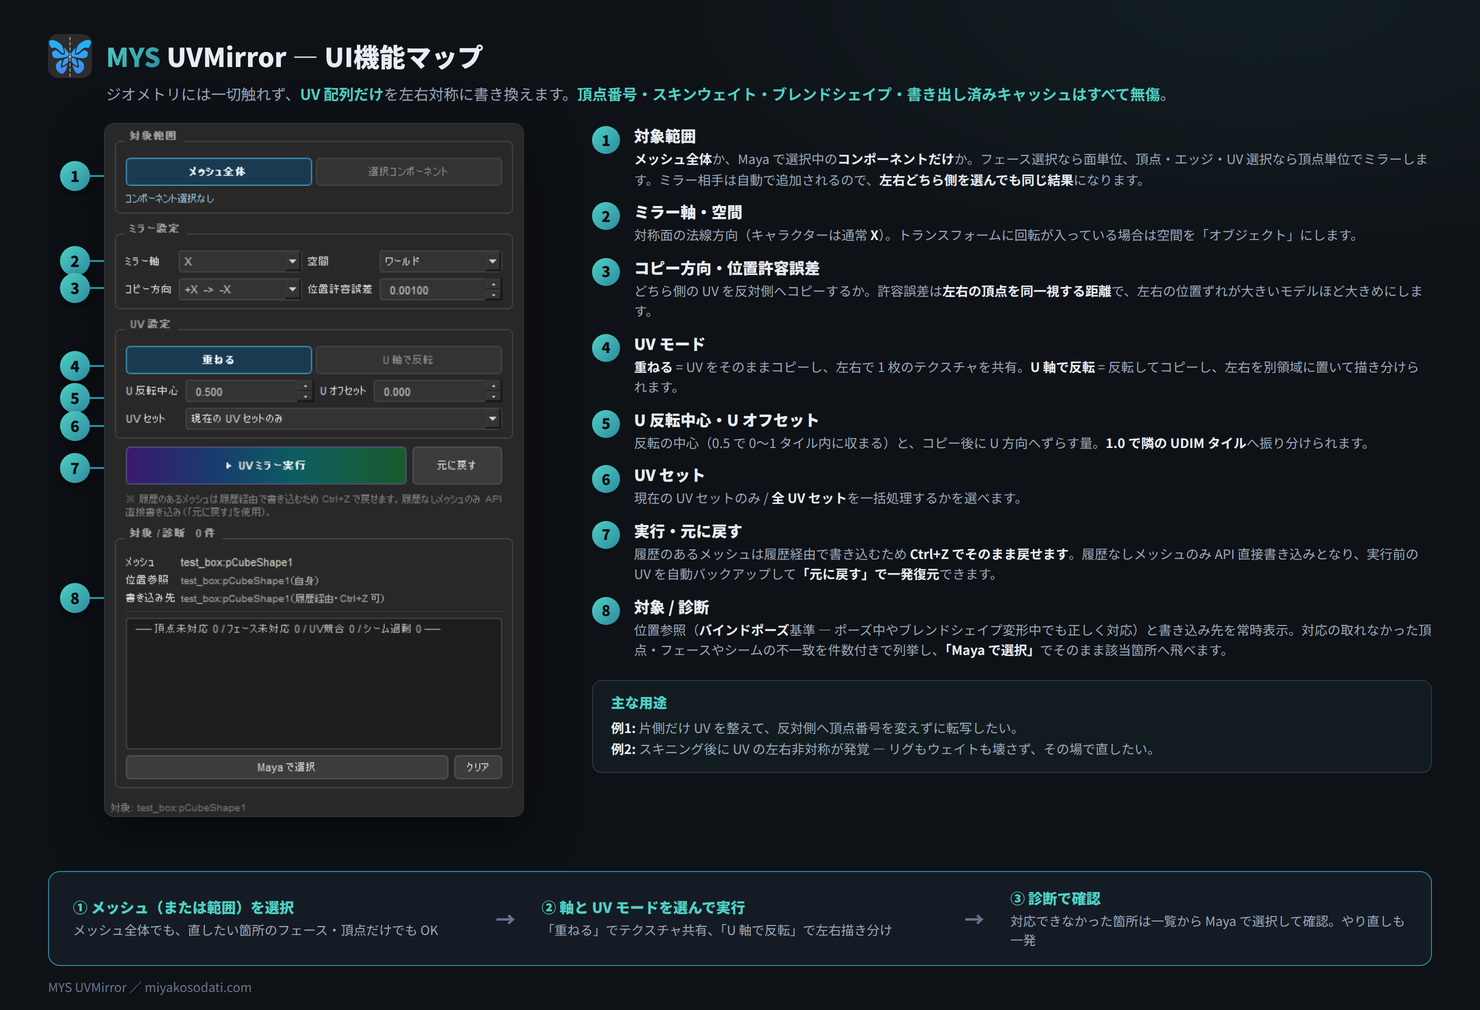
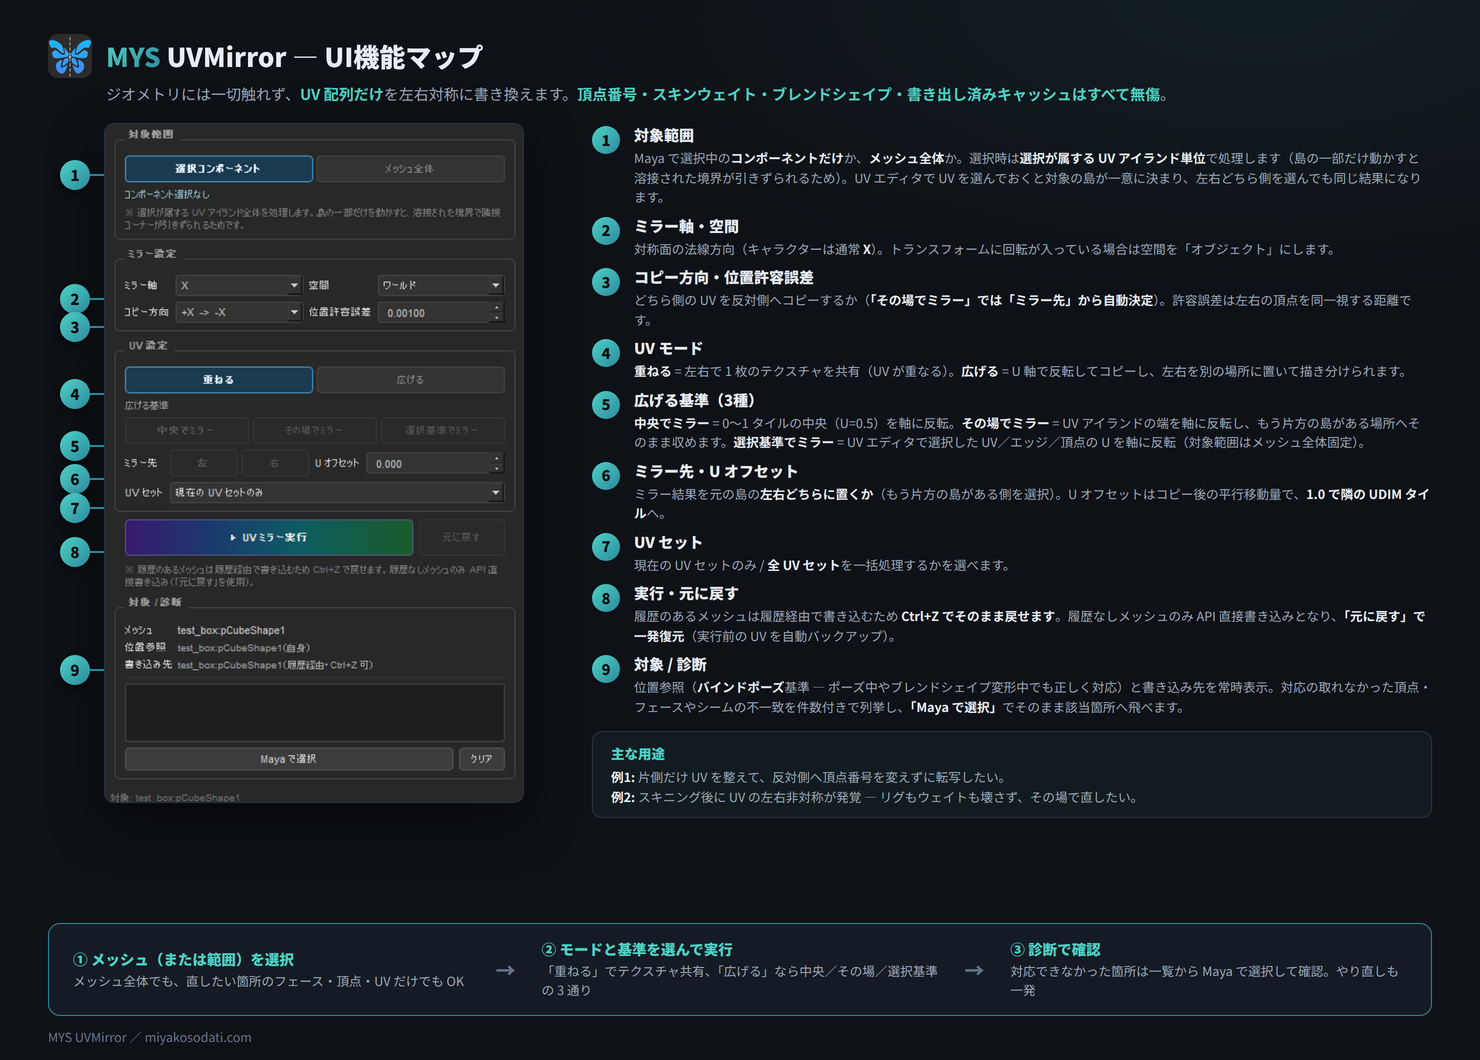
UVMirror v1.8.0: 広げる基準3種化・UVアイランド単位処理、ページ/画像/versions.json更新

diff --git a/tools/uvmirror/index.html b/tools/uvmirror/index.html
@@ -27,7 +27,7 @@
 
   <div class="tool-head">
     <div class="crumb"><a href="/">MYS Tools</a> / UVMirror</div>
-    <h1>MYS UVMirror <span style="font-size:16px;color:var(--tx3)">v1.0.0</span></h1>
+    <h1>MYS UVMirror <span style="font-size:16px;color:var(--tx3)">v1.8.0</span></h1>
     <div class="tag">頂点番号を変えない UV ミラー — スキンウェイトもブレンドシェイプも無傷のまま、UV だけを左右対称に</div>
     <div class="badges">
       <span class="bd dcc">Maya 2020–2026</span>
@@ -36,7 +36,7 @@
       <span class="bd">無償・商用利用可</span>
     </div>
     <div class="dl-row">
-      <a class="dl-btn" href="https://github.com/miyakosodati/miyakosodati.github.io/releases/download/uvmirror-v1.0.0/MYS_UVMirror_v1.0.0.zip">ダウンロード（v1.0.0）</a>
+      <a class="dl-btn" href="https://github.com/miyakosodati/miyakosodati.github.io/releases/download/uvmirror-v1.8.0/MYS_UVMirror_v1.8.0.zip">ダウンロード（v1.8.0）</a>
       <div class="dl-note">ダウンロード・使用により<a href="/eula/">使用許諾契約（EULA）</a>に同意したものとみなされます。社外への再配布はできません。</div>
     </div>
   </div>
@@ -46,8 +46,8 @@
   <h2 class="sec">できること</h2>
   <ul>
     <li>UVMirror はジオメトリに一切触れず、<strong>UV 配列だけを書き換えます</strong>。メッシュ単位での「半分削除 → ミラー → マージ」では頂点番号が変わってしまい、関連する機能にも波及しますが、本ツールでは<strong>それを無傷で実行</strong>できます。</li>
-    <li><strong>メッシュ全体でも、選択したコンポーネントだけの部分ミラーでも</strong>。フェース選択なら面単位、頂点・エッジ・UV 選択なら頂点単位で反映され、左右どちら側を選んでも同じ結果になります。</li>
-    <li>UV モードは2種類。<strong>「重ねる」</strong>で左右 1 枚のテクスチャを共有、<strong>「U 軸で反転」</strong>で左右を別領域に描き分け。U オフセット 1.0 で<strong>隣の UDIM タイルへの振り分け</strong>もできます。</li>
+    <li><strong>メッシュ全体でも、選択したコンポーネントだけの部分ミラーでも</strong>。選択時は選択が属する <strong>UV アイランド単位</strong>で処理され、左右どちら側を選んでも同じ結果になります。UV エディタで UV を選んでおくと、対象の島が一意に決まります。</li>
+    <li>UV モードは2種類。<strong>「重ねる」</strong>で左右 1 枚のテクスチャを共有、<strong>「広げる」</strong>で左右を別領域に描き分け。広げる基準は<strong>中央 / その場 / 選択基準の3種類</strong>で、「その場でミラー」なら、もう片方の島がある場所へそのまま収められます。U オフセット 1.0 で<strong>隣の UDIM タイルへの振り分け</strong>もできます。</li>
     <li>左右対応は<strong>バインドポーズの座標</strong>から取るため、ポーズ中やブレンドシェイプ変形中でも正しくミラーできます。対応が取れなかった箇所は<strong>診断リスト</strong>に列挙され、「Maya で選択」でそのまま確認できます。</li>
   </ul>
 
@@ -74,6 +74,7 @@
 
   <h2 class="sec">更新履歴</h2>
   <table class="spec">
+    <tr><th>v1.8.0（2026-08-11）</th><td>「広げる」（旧: U 軸で反転）の基準を3種類に拡張（中央 / その場 / 選択基準）。「選択コンポーネント」処理をUVアイランド単位に変更。UI文言を全体的に見直し</td></tr>
     <tr><th>v1.0.0（2026-08-10）</th><td>初回公開</td></tr>
   </table>
 
